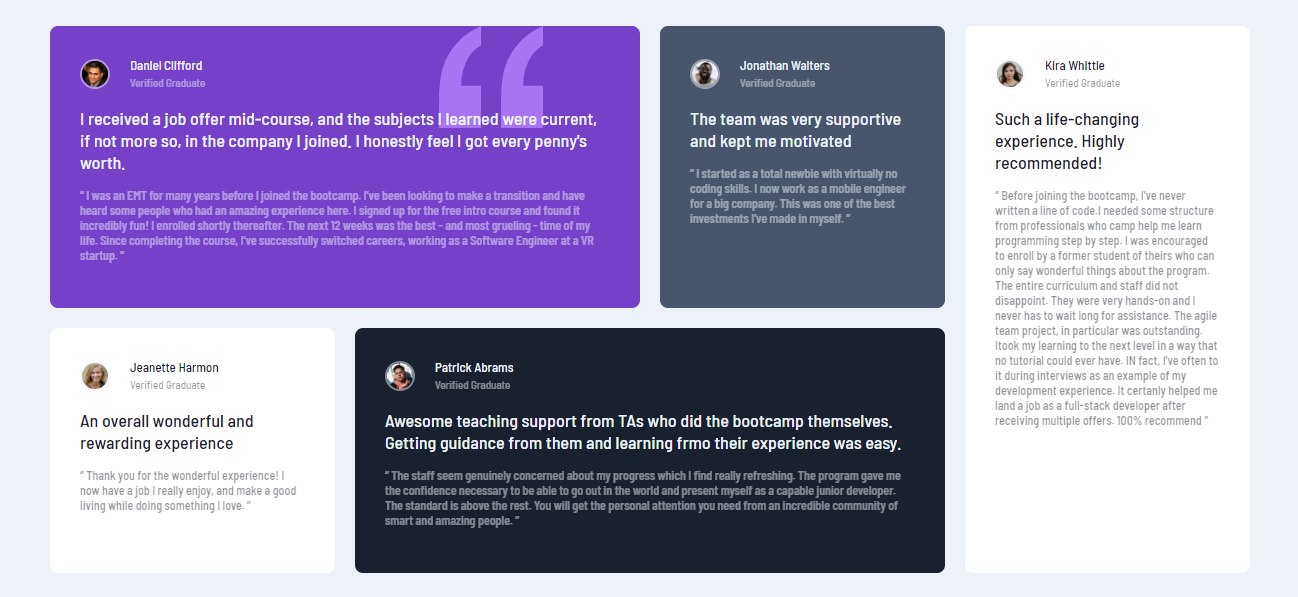
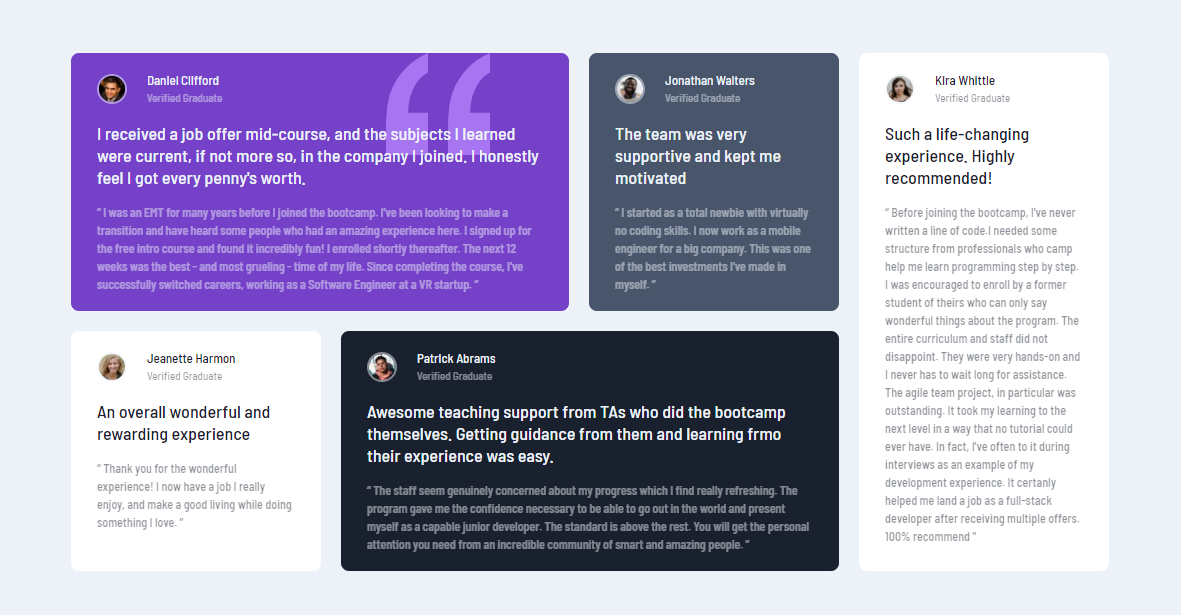
modified: testimonial.scss --> .testimonials{width}

Changed region(s): [[0.0305, 0.0302, 0.945, 0.9648], [0.061, 0.5729, 0.2439, 0.8744]]

diff --git a/build/css/app.css b/build/css/app.css
@@ -1,2 +1,2 @@
-body,h1,h2,h3{font-family:Barlow Semi Condensed,sans-serif}h1,h2,h3{text-align:center}html{box-sizing:border-box;font-size:62.5%}*,:after,:before{box-sizing:inherit;margin:0;padding:0}body{align-items:center;background-color:#ecf2f8;display:flex;font-size:13px;justify-content:center;min-height:100vh}[class$=__container]{margin:0 auto;max-width:1200px;width:95%}img{display:block;height:auto;margin:0 auto;max-width:100%;text-align:center;width:auto}button{background-color:transparent;border:none;color:#fff}.testimonials{align-items:center;background-color:#ecf2f8;display:flex;justify-content:center;padding:1rem 0;width:100%}.testimonials .testimonials__container{display:flex;flex-direction:column}@media(min-width:768px){.testimonials .testimonials__container{-moz-column-gap:2rem;column-gap:2rem;display:grid;grid-auto-flow:dense;grid-template-columns:repeat(3,1fr);grid-template-rows:repeat(2,-webkit-min-content);grid-template-rows:repeat(2,min-content);row-gap:2rem}}@media(min-width:1024px){.testimonials .testimonials__container{-moz-column-gap:2rem;column-gap:2rem;display:grid;grid-template-columns:repeat(4,1fr);grid-template-rows:repeat(2,-webkit-min-content);grid-template-rows:repeat(2,min-content);row-gap:2rem}}.testimonial{background-color:#7541c8;border-radius:.8rem;display:flex;flex-direction:column;margin:0 auto 2rem;min-width:25rem;padding:3rem;width:40%}@media(min-width:768px){.testimonial{margin:0;width:100%}}.testimonial .testimonial__title{color:#fff;font-size:1.8rem;font-weight:500;margin-bottom:1.5rem;text-align:left}.testimonial .testimonial__paragraph{font-size:1.2rem;font-weight:600;line-height:1.5rem;margin-bottom:1.5rem;opacity:.5;width:100%}.testimonial__profile{align-items:center;display:flex;justify-content:left;margin-bottom:1.5rem}.testimonial__profile .image img{border:.2rem solid rgba(236,242,248,.5);border-radius:5rem;width:3rem}.testimonial__profile span{display:block;font-size:1.3rem;font-weight:500;line-height:1.8rem;margin-left:2rem}.testimonial__profile span:last-of-type{font-size:1.1rem;opacity:.5}.testimonial--1{background-color:#7541c8;background-image:url(../img/bg-pattern-quotation.svg);background-position:80% top;background-repeat:no-repeat}@media(min-width:768px){.testimonial--1{grid-column:1/3;grid-row:1/2}}@media(min-width:1024px){.testimonial--1{grid-column:1/3;grid-row:1/2}}.testimonial--2{background-color:#48556a}@media(min-width:1024px){.testimonial--2{grid-column:3/4;grid-row:1/2}}.testimonial--3{background-color:#fff}@media(min-width:768px){.testimonial--3{grid-column:1/4;grid-row:3/4}}@media(min-width:1024px){.testimonial--3{grid-column:4/5;grid-row:1/3}}.testimonial--4{background-color:#fff}@media(min-width:1024px){.testimonial--4{grid-column:1/2;grid-row:2/3}}.testimonial--5{background-color:#19212e}@media(min-width:768px){.testimonial--5{grid-column:2/4;grid-row:2/3}}@media(min-width:1024px){.testimonial--5{grid-column:2/4;grid-row:2/3}}.testimonial--1 .name span,.testimonial--1 .testimonial__paragraph,.testimonial--1 .testimonial__title,.testimonial--2 .name span,.testimonial--2 .testimonial__paragraph,.testimonial--2 .testimonial__title,.testimonial--5 .name span,.testimonial--5 .testimonial__paragraph,.testimonial--5 .testimonial__title{color:#ecf2f8}.testimonial--3 .name span,.testimonial--3 .testimonial__paragraph,.testimonial--3 .testimonial__title,.testimonial--4 .name span,.testimonial--4 .testimonial__paragraph,.testimonial--4 .testimonial__title{color:#19212e}
+body,h1,h2,h3{font-family:Barlow Semi Condensed,sans-serif}h1,h2,h3{text-align:center}html{box-sizing:border-box;font-size:62.5%}*,:after,:before{box-sizing:inherit;margin:0;padding:0}body{align-items:center;background-color:#ecf2f8;display:flex;font-size:13px;justify-content:center;min-height:100vh}[class$=__container]{margin:0 auto;max-width:1200px;width:95%}img{display:block;height:auto;margin:0 auto;max-width:100%;text-align:center;width:auto}button{background-color:transparent;border:none;color:#fff}.testimonials{align-items:center;background-color:#ecf2f8;display:flex;justify-content:center;padding:1rem 0;width:80%}@media(min-width:1024px){.testimonials{width:80%}}.testimonials .testimonials__container{display:flex;flex-direction:column}@media(min-width:768px){.testimonials .testimonials__container{-moz-column-gap:2rem;column-gap:2rem;display:grid;grid-auto-flow:dense;grid-template-columns:repeat(3,1fr);grid-template-rows:repeat(2,-webkit-min-content);grid-template-rows:repeat(2,min-content);row-gap:2rem}}@media(min-width:1024px){.testimonials .testimonials__container{-moz-column-gap:2rem;column-gap:2rem;display:grid;grid-template-columns:repeat(4,1fr);grid-template-rows:repeat(2,-webkit-min-content);grid-template-rows:repeat(2,min-content);row-gap:2rem}}.testimonial{background-color:#7541c8;border-radius:.8rem;display:flex;flex-direction:column;margin:0 auto 2rem;min-width:25rem;padding:1.8rem 2.6rem;width:40%}@media(min-width:768px){.testimonial{margin:0;width:100%}}.testimonial .testimonial__title{color:#fff;font-size:1.8rem;font-weight:500;margin-bottom:1.5rem;text-align:left}.testimonial .testimonial__paragraph{font-size:1.2rem;font-weight:600;line-height:1.8rem;opacity:.5}.testimonial__profile{align-items:center;display:flex;justify-content:left;margin-bottom:1.5rem}.testimonial__profile .image img{border:.2rem solid rgba(236,242,248,.5);border-radius:5rem;width:3rem}.testimonial__profile span{display:block;font-size:1.3rem;font-weight:500;line-height:1.8rem;margin-left:2rem}.testimonial__profile span:last-of-type{font-size:1.1rem;opacity:.5}.testimonial--1{background-color:#7541c8;background-image:url(../img/bg-pattern-quotation.svg);background-position:80% top;background-repeat:no-repeat}@media(min-width:768px){.testimonial--1{grid-column:1/3;grid-row:1/2}}@media(min-width:1024px){.testimonial--1{grid-column:1/3;grid-row:1/2}}.testimonial--2{background-color:#48556a}@media(min-width:1024px){.testimonial--2{grid-column:3/4;grid-row:1/2}}.testimonial--3{background-color:#fff}@media(min-width:768px){.testimonial--3{grid-column:1/4;grid-row:3/4}}@media(min-width:1024px){.testimonial--3{grid-column:4/5;grid-row:1/3}}.testimonial--4{background-color:#fff}@media(min-width:1024px){.testimonial--4{grid-column:1/2;grid-row:2/3}}.testimonial--5{background-color:#19212e}@media(min-width:768px){.testimonial--5{grid-column:2/4;grid-row:2/3}}@media(min-width:1024px){.testimonial--5{grid-column:2/4;grid-row:2/3}}.testimonial--1 .name span,.testimonial--1 .testimonial__paragraph,.testimonial--1 .testimonial__title,.testimonial--2 .name span,.testimonial--2 .testimonial__paragraph,.testimonial--2 .testimonial__title,.testimonial--5 .name span,.testimonial--5 .testimonial__paragraph,.testimonial--5 .testimonial__title{color:#ecf2f8}.testimonial--3 .name span,.testimonial--3 .testimonial__paragraph,.testimonial--3 .testimonial__title,.testimonial--4 .name span,.testimonial--4 .testimonial__paragraph,.testimonial--4 .testimonial__title{color:#19212e}
 /*# sourceMappingURL=app.css.map */

diff --git a/index.html b/index.html
@@ -69,7 +69,7 @@
                     Such a life-changing experience. Highly recommended!
                 </h3>
                 <p class="testimonial__paragraph">
-                    “ Before joining the bootcamp, I've never written a line of code.I needed some structure from professionals who camp help me learn programming step by step. I was encouraged to enroll by a former student of theirs who can only say wonderful things about the program. The entire curriculum and staff did not disappoint. They were very hands-on and I never has to wait long for assistance. The agile team project, in particular was outstanding. Itook my learning to the next level in a way that no tutorial could ever have. IN fact, I've often to it during interviews as an example of my development experience. It certanly helped me land a job as a full-stack developer after receiving multiple offers. 100% recommend ”
+                    “ Before joining the bootcamp, I've never written a line of code.I needed some structure from professionals who camp help me learn programming step by step. I was encouraged to enroll by a former student of theirs who can only say wonderful things about the program. The entire curriculum and staff did not disappoint. They were very hands-on and I never has to wait long for assistance. The agile team project, in particular was outstanding. It took my learning to the next level in a way that no tutorial could ever have. In fact, I've often to it during interviews as an example of my development experience. It certanly helped me land a job as a full-stack developer after receiving multiple offers. 100% recommend ”
                 </p>
             </div>
             <div class="testimonial testimonial--4">

diff --git a/src/scss/layout/_testimonials.scss b/src/scss/layout/_testimonials.scss
@@ -8,7 +8,10 @@
     align-items: center;
     background-color: c.$color-5;
     padding: 1rem 0;
-    width: 100%;
+    width: 80%;
+    @include m.desktop{
+        width: 80%;
+    }
     .testimonials__container{
         display: flex;
         flex-direction: column;
@@ -17,8 +20,6 @@
             grid-auto-flow: dense;
             grid-template-columns: repeat(3, 1fr);
             grid-template-rows: repeat(2, min-content);
-            // grid-template-columns: repeat(2, minmax(15rem,1fr));
-            // grid-template-rows: repeat(2, min-content);
             column-gap: 2rem;
             row-gap: 2rem;
         }
@@ -37,7 +38,7 @@
     background-color: c.$color-1;
     border-radius: 0.8rem;
     margin: 0 auto 2rem;
-    padding: 3rem;
+    padding: 1.8rem 2.6rem;
     width: 40%;
     min-width: 25rem;
 
@@ -54,10 +55,8 @@
     }
     .testimonial__paragraph{
         font-size: 1.2rem;
-        margin-bottom: 1.5rem;
-        line-height: 1.5rem;
+        line-height: 1.8rem;
         font-weight: v.$semi-bold;
-        width: 100%;
         opacity: 0.5;
     }
 }
